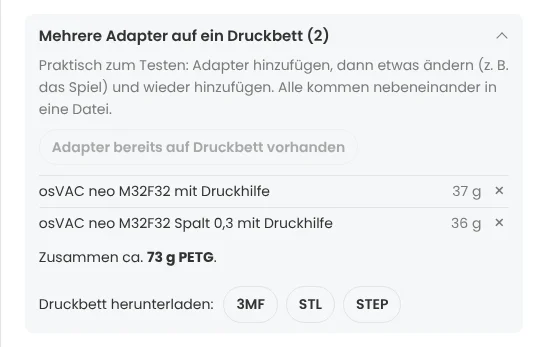
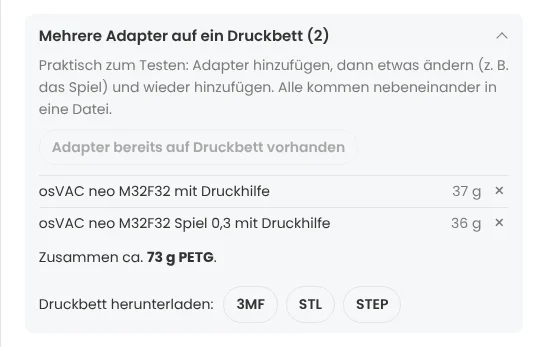
Anleitungsbilder druckbett/stutzen-fein neu, README auf aktuellen Stand
- druckbett.webp: Dateiname „… Spiel 0,3“; stutzen-fein.webp: Tabelle mit Ø… mm
- README: Abschnitt „Dichtung in der Kupplung“ (Maße, Lippendichtung), Drehring
  druckoptimiert als Standard, Gewinde links/rechts, SealFigure, Schritte, test:ui/test:sketches
  mit aktuellem Umfang und Dauer, Tests auf GitHub von Hand, Tag-Beispiel allgemein

Claude-Session: https://claude.ai/code/session_012KSPQT78fBfVApVSRoVPpy

Changed region(s): [[0.3419, 0.6052, 0.6216, 0.6628]]

diff --git a/README.md b/README.md
@@ -66,9 +66,11 @@ Gerade, Bogen, Anschlagring und Muffe/Zapfen ohne Konus sind exakte Extrusionen 
 
 **Magnet-Schnellkupplung Ø100** (`src/lib/osvac/magnet.ts`, `partsMagnet` in `assemblies.ts`): Testdruck steht noch aus; `test:ui` prüft den Ablauf. Eigenes System (an osVAC neo nur über die Platte mit Kupplung/Stecker); Idee wie die magnetische Schnellkupplung von kleinholz.me, eigene Konstruktion. Maschinenadapter: Muffe über den Stutzen (Ø90–110, Spiel je Seite 0,3), innen 45°-Anschlag auf die Bohrung Ø97, am offenen Ende Schraubklemme (Schlitz 4 mm mit Entlastungsloch Ø8, zwei Ohren mit 45°-Stützen, Bohrung Ø5,5, Kopfsenkung Ø9,2 und Sechskant-Tasche SW 8,3, beide 5,3 tief: Zylinderschraube M5 × 25 ISO 4762, selbstsichernde Mutter M5 DIN 985), oben Flansch und Zentrierbund Ø106 × 6. Schlauchkupplung: Rohr mit Außengewinde (Grund = Schlauch innen Ø90–110, Tiefe 3, Flanken 45°, Steigung 8–20, links oder rechts, eigener Körper „Gewinde“), oben Flansch mit Tasche für den Bund (Spiel je Seite 0,3). Flansch: Scheibe R59 und 8 Nasen auf R63 (Nasenradius = Tasche/2 + 3,5), Unterseite durchgehend 45° von der Wand bis außen an die Nasen, darum druckt alles ohne Stützen. Magnete 10 × 3, 12 × 5 oder 15 × 3 in geschlossenen Taschen (+0,3 im Ø, +0,2 hoch) 0,6 mm unter der Kontaktfläche; Kontaktfläche und Taschen im 0,2-mm-Raster, die Höhen der Druckpause stehen in den Druckhinweisen. Beide Teile werden mit der Kontaktfläche nach oben gedruckt und liegen diagonal nebeneinander, um 22,5° gegeneinander verdreht (passen auf 256 mm). `npm run test:islands -- magnet` prüft drei Varianten; `npx tsx scripts/magnet-try.ts [Ordner] [JSON]` baut die Körper einzeln als STL. Platten (Karte *Gerät ↔ Schlauch* mit „Kleiner, mit Drehring“ und Karte *Gerät ↔ Kupplung/Stecker*, `magnetPlate`, `magnetPortLayout`, `magnetPlateInfo`): flach, Kontaktfläche unten (z = 0), 8,4 mm stark mit Ringnut für den Bund (innen Ø97 − 2 × Spiel, Decke = Brücke 4,8 mm), innerhalb der Nut 4 mm, unter jedem Anschluss ein Sockel in voller Stärke mit Loch; Taschen 0,6 über der Kontaktfläche (Druckpause früh). osVAC-Anschlüsse fest (Female bzw. Male gedreht, je mit Übergang wie bei den Stutzen-Adaptern); Schläuche: unterer Drehring + Kopf des Schlauchteils fest, oberer Drehring + umgedrehter Becher (Schlauchteil ohne Knickschutz, Schulter aufgefüllt, Gewinde ohne Auslauf, je Schlauch links oder rechts; Rändelung und Textfelder aufrecht gebaut, `hoseCupGrip`) drehen. Außenradius je Anschluss mit Gegenstück: F/M d/2 + W + 1,5, Schlauch d/2 + W + 0,5; freier Abstand 15 mm (Bajonett), 12 mm bei zwei Steckern (gemessen an den aufgesteckten Kupplungen) bzw. 8 mm (Schläuche), beide innerhalb R59. Verschlusskappen (Stopfen = Male, Kappe = Female, je mit Boden) als eigene Objekte in den freien Ecken des Druckbetts. `npm run test:islands -- magnet` prüft sechs weitere Fälle.
 
-**Druckoptimierter Drehring** (`swivelPrintProfile`, `swivelPrintTop/Bottom` in `hose.ts`, `swivelParts` in `assemblies.ts`, BuildOptions `swivel: 'print'`): in „Passung“ wählbar (*Wie Original* / *Druckoptimiert*, Standard wie im Original), Testdruck steht noch aus. Standard des Drehring-Spiels 0,3 mm wie im Original. Eigene Form statt der Haken des Originals: Der obere Ring (an Kupplung, Gehäuse bzw. Nebenluft-Rohr) sitzt innen und hat unten einen Flansch, der untere (am Schlauchteil) liegt außen als 1,6-mm-Hülse mit einer Lippe, die 1,4 mm über den Flansch greift. Alle beim Druck nach unten zeigenden Flächen sind 45° (Lippen-Unterseite 50°) oder senkrecht; senkrechte Dichtflächen (Flanschspitze 2,2 mm, Lippe 0,8 mm) mit dem eingestellten Spiel, Schrägen mit Spiel + 0,15, mindestens 0,45. Frei beginnt nur die Flanschspitze, 0,65 mm über dem unteren Ring. FxxHyy/Nebenluft-Regler: Schlauchteil 6,5 statt 6,0 mm unter dem Ring (0,5 mm länger); MxxHyy: Gehäuse-Unterkante 45° (Ecke an der Bohrung 0,36 höher), Schulter des Schlauchteils folgt. `npm run test:swivel` prüft die Profile für 7/9 mm und Spiel 0,2–0,5 (keine Überlappung, Mindestspiel, kein Überhang außer dem Anfang) und rechnet das Original zum Vergleich mit; `test:islands` hat drei Fälle `drehring-druck`/`nebenluft-druck`.
+**Druckoptimierter Drehring** (`swivelPrintProfile`, `swivelPrintTop/Bottom` in `hose.ts`, `swivelParts` in `assemblies.ts`, BuildOptions `swivel: 'print'`): in „Passung“ wählbar (*Druckoptimiert* / *Wie Original*, Standard seit 0.6.0 druckoptimiert), Testdruck steht noch aus. Standard des Drehring-Spiels 0,3 mm wie im Original. Eigene Form statt der Haken des Originals: Der obere Ring (an Kupplung, Gehäuse bzw. Nebenluft-Rohr) sitzt innen und hat unten einen Flansch, der untere (am Schlauchteil) liegt außen als 1,6-mm-Hülse mit einer Lippe, die 1,4 mm über den Flansch greift. Alle beim Druck nach unten zeigenden Flächen sind 45° (Lippen-Unterseite 50°) oder senkrecht; senkrechte Dichtflächen (Flanschspitze 2,2 mm, Lippe 0,8 mm) mit dem eingestellten Spiel, Schrägen mit Spiel + 0,15, mindestens 0,45. Frei beginnt nur die Flanschspitze, 0,65 mm über dem unteren Ring. FxxHyy/Nebenluft-Regler: Schlauchteil 6,5 statt 6,0 mm unter dem Ring (0,5 mm länger); MxxHyy: Gehäuse-Unterkante 45° (Ecke an der Bohrung 0,36 höher), Schulter des Schlauchteils folgt. `npm run test:swivel` prüft die Profile für 7/9 mm und Spiel 0,2–0,5 (keine Überlappung, Mindestspiel, kein Überhang außer dem Anfang) und rechnet das Original zum Vergleich mit; `test:islands` hat drei Fälle `drehring-druck`/`nebenluft-druck`.
 
 **Drehring-Lösehilfe** (`src/lib/osvac/helper.ts`): nach „osVACneo SlipRingHelper“ von Ludo Kerz (odul), parametrisch nachgebaut (Abgleich mit dem Fusion-Export F32/M32: Abweichung ≤ 0,02 mm, Schrift ausgenommen). Halter für Kupplungen: Block (FemaleDiameterOuter + 2, 33,5 hoch) mit Stecker-Stutzen und drei Rippen bis 3,3 mm unter die Oberkante. Halter für Stecker: Block mit Bohrung wie die Kupplung und sechs Taschen für die Nasen. Schrift „osVAC neo / F32 bzw. M32 / Drehring-Lösehilfe“ 0,5 mm tief; beschriftet wie im Original nach dem Teil selbst (der Halter für Kupplungen ist ein Stecker: M32, der für Stecker eine Kupplung: F32). Fusion-Exportskript: `tools/fusion/export_loesehilfe`.
+
+**Dichtung in der Kupplung** (`src/lib/osvac/seal.ts`, `sealring.ts`, `partsSealRing` in `assemblies.ts`, Kasten im Schritt Download, Skizze `SealFigure.svelte`): Maße der Dichtnut unten in jeder Kupplung (Bohrung F + 6 + Spiel, größter Ø F + 8,2 auf 1,95 mm Höhe, Rundung R1,95 um Ø F + 4,3, Höhe an der Bohrung, Spielraum der Steckerspitze 3,3 bis 3,6 + 0,6 × Spiel mm über dem Boden, am Modell nachgemessen) mit O-Ring-Vorschlag. Dazu eine **Lippendichtung aus TPU** als eigene Datei (eigener Adaptertyp `SEAL`, nicht in Schritt 1): Fuß in der Hinterschneidung (unten 45°, 0,1 mm Luft), 0,8 mm Lippe unter mindestens 55° nach oben außen, steht um die *Vorspannung der Lippe* (0,2–1,0 mm, Standard 0,5) über der Steckerspitze; die Außenluft drückt sie unter Sog an den Stecker. Die Dichtnut selbst wird in Kupplungen überall frei gelassen (keine Dichtnut-Füllung wie beim Maschinenadapter des Originals).
 
 **Druckbarkeit** (`npm run test:islands`): Düsen, Nebenluft-Regler und Vorlagen werden wie beim Export vernetzt und in 0,2-mm-Schichten geschnitten. Sagt die App „ohne Stützen“, darf nichts frei in der Luft beginnen (außer der untersten Schicht des Drehrings); offene Netzkanten sind immer ein Fehler. Die Stützen-Prüfung der Freiform zählt Kupplungen und Stecker mit, die schräg stehen (nach einem Bogen, am Abzweig).
 
@@ -106,7 +108,7 @@ Nach Änderungen reicht `git add -A`, `git commit -m "…"` und `git push`.
 src/
   App.svelte                 Gerüst: Vorschau, Berechnung mit Fortschritt, Schrittleiste
   lib/app.svelte.ts          Zustand aller Schritte (Eingaben, abgeleitete Werte, Export, Speichern im Browser)
-  components/steps/          Die Schritte Verbindung, Größen, Passung, Download
+  components/steps/          Die Schritte Verbindung, Größen (bzw. Teile, Düse, Nebenluft), Passung, Download
   lib/viewer.ts              3D-Ansicht (three.js) mit Druckbett
   lib/cad.ts                 Worker-Pool, Auftragsverteilung, Export STL/STEP/3MF
   lib/worker/cad.worker.ts   OpenCascade (replicad) im Web Worker, Teile-Cache
@@ -117,7 +119,7 @@ src/
   lib/osvac/sealring.ts      Lippendichtung aus TPU als Körper (eigene Datei, Kind SEAL außerhalb von Schritt 1)
   lib/osvac/male.ts          Stecker mit Bajonettnasen, Druckhilfe
   lib/osvac/hose.ts          Gewindekörper, Drehring, Gehäuse, Knickschutz
-  lib/osvac/thread.ts        Schlauchgewinde (linksgängig, Steigung 5 mm, Konus 4°)
+  lib/osvac/thread.ts        Schlauchgewinde (links- oder rechtsgängig, Steigung 5 mm, Konus 4°)
   lib/osvac/magnet.ts        Magnet-Schnellkupplung Ø100 (Adapter, Kupplung, Taschen, Klemme)
   lib/osvac/machine.ts       Rohrkonus für Stutzen
   lib/osvac/grip.ts          Rändelung und Textfelder
@@ -139,6 +141,7 @@ src/
   components/SectionEditor.svelte   Querschnitt wählen und bemaßen, mit Skizze
   components/BlockFigure.svelte     Erklärskizzen der Bausteine
   components/ContourPanel.svelte    eigene Kontur laden, nachzeichnen, zeichnen (ContourDraw.svelte)
+  components/SealFigure.svelte      Schnitt durch die Dichtnut mit Steckerspitze und Lippendichtung (Download)
 scripts/
   build-ref.ts               Einzelteil in Node bauen (npm run part -- MxxFyy 25 32 32)
   matrix.ts                  Alle Typen mit Grenzwerten bauen (npm run test:geometry)
@@ -167,14 +170,14 @@ tools/druck/                 Schichtprüfung für test:islands und test:bleed (P
 | `npm run check` | Typen (Svelte und TypeScript) | < 1 min |
 | `npm run test:keys` | gleiche Cache-Schlüssel ergeben gleiche Körper | ca. 1 min |
 | `npm run test:freeform` | alle Freiform-Vorlagen, Querschnitte, Extras, Flansch (alle Formen, mit Dichtung, Lochbild nach Maß, Prüfungen) und längere Ketten, Stutzen-Typen mit Klemmrippen/Schlitzen, Weg des Hinweises bei weggelassenen Rippen, Rahmen nicht gespiegelt | ca. 4 min |
-| `npm run test:sketches` | keine Beschriftung in Skizzen berührt Linien, Flächen oder andere Beschriftungen (braucht `npm run build` und Chrome, Chromium oder Edge; wird gesucht, sonst Pfad über `CHROME_PATH`) | < 1 min |
-| `npm run test:ui` | Bedienabläufe: Neu anfangen, Rückfrage vor Vorlagen, Bereich bleibt offen, Download gesperrt bei Fehlern und bei Teilen unter dem Druckbett, Stand und Druckbett nach dem Neuladen, Extras im Namen, Flansch, Druckhilfe je Verbindung, Link aus den Download-Hinweisen (braucht `npm run build` und Chrome; bei Fehlern Bildschirmfotos in out/) | ca. 1 min |
+| `npm run test:sketches` | keine Beschriftung in Skizzen berührt Linien, Flächen oder andere Beschriftungen, auch in der Skizze der Dichtnut (braucht `npm run build` und Chrome, Chromium oder Edge; wird gesucht, sonst Pfad über `CHROME_PATH`) | ca. 2 min |
+| `npm run test:ui` | Bedienabläufe: Neu anfangen, Rückfrage vor Vorlagen, Bereich bleibt offen, Download gesperrt bei Fehlern und bei Teilen unter dem Druckbett, Stand und Druckbett nach dem Neuladen, Extras im Namen, Flansch, Abzweig, Schieber, Speicherort, Saugdüse, Nebenluft-Regler, eigene Kontur, Lösehilfe, Magnet-Schnellkupplung (mit Maßen der Dichtnut und Download der Lippendichtung), Drehring, Gewinderichtung, Druckhilfe je Verbindung, hell/dunkel, Link aus den Download-Hinweisen (braucht `npm run build` und Chrome; bei Fehlern Bildschirmfotos in out/) | ca. 10 min |
 | `npm run test:geometry` | alle Adaptertypen mit Grenzwerten | ca. 10–15 min |
 | `npm run test:swivel` | Druckoptimierter Drehring: Profile ohne Überlappung, Mindestspiel, kein Überhang außer dem Anfang des oberen Rings; Vergleich mit dem Original | wenige s |
 | `npm run test:bleed` | Nebenluft-Ring: Rohr und Ring in 0,2-mm-Schichten, frei beginnt nur die unterste Ringschicht (mindestens 0,6 mm über dem Rohr), Abstand nirgends kleiner als das Spiel (braucht python3 mit trimesh, shapely, rtree) | etwa 20 s |
 | `npm run test:islands` | Druckbarkeit: Düsen, Nebenluft-Regler und Vorlagen in 0,2-mm-Schichten geschnitten, nichts beginnt frei in der Luft, wenn die App „ohne Stützen“ sagt (braucht python3 mit trimesh und shapely) | ca. 2 min |
 
-Auf GitHub laufen alle von Hand (Actions → Tests → Run workflow) und vor jedem Release (siehe „Neue Version veröffentlichen“), in mehreren gleichzeitigen Gruppen, zusammen etwa 15 Minuten. Nicht bei jedem Push: vor jedem Patch laufen die Tests ohnehin lokal.
+Auf GitHub laufen alle von Hand (Actions → Tests → Run workflow) und vor jedem Release (siehe „Neue Version veröffentlichen“), in mehreren gleichzeitigen Gruppen, zusammen etwa 20 Minuten. Nicht bei jedem Push: nach größeren Änderungen deshalb von Hand starten.
 
 ### Rechenzeit
 
@@ -202,7 +205,8 @@ Auf GitHub laufen alle von Hand (Actions → Tests → Run workflow) und vor jed
 - Freiform: Dateiname und Druckbett-Liste nennen die Extras („… Schrauben Aussparung“). Die Lage der Aussparung zeigt eine kleine Skizze des Querschnitts, ein Klick darauf setzt sie. Die schnelle Vorschau rechnet ohne Extras.
 - Während der Berechnung zeigt die Vorschau den Fortschritt („3 von 9 Teilen“, ab dem ersten fertigen Teil). Scheitert sie, bleibt das letzte Modell blass stehen; gab es noch keins, erscheint ein Hinweis statt einer leeren Vorschau.
 - Im Download-Schritt lassen sich mehrere Adapter auf ein Druckbett legen und zusammen als 3MF, STL oder STEP herunterladen.
-- Dateinamen enthalten abweichende Einstellungen (z. B. „osVAC neo F32H36 Drehring 0,4“).
+- Bei jedem Adapter mit Kupplung zeigt der Download-Schritt den Kasten „Dichtung in der Kupplung“ (siehe oben).
+- Dateinamen enthalten abweichende Einstellungen (z. B. „osVAC neo F32H36 Spiel 0,3 Drehring 0,4“).
 
 Konvention: Achse = Z, Oberkante eines Moduls bei z = 0, Profile als (r, z). Radien hängen über die Fusion-Formeln von den Eingaben ab, axiale Maße sind fest.
 
@@ -280,7 +284,7 @@ dann `npx tauri build --bundles appimage,deb`.
 1. Version in `package.json`, `package-lock.json`, `src-tauri/tauri.conf.json`, `src-tauri/Cargo.toml` und
    `src-tauri/Cargo.lock` erhöhen und in `CHANGELOG.md` einen Abschnitt `## <Version>` anlegen.
 2. Bei geänderten Abhängigkeiten die Lizenzdateien neu erzeugen (siehe „Lizenzen“).
-3. Committen, pushen, dann den Tag setzen: `git tag v0.6.1 && git push origin v0.6.1`.
+3. Committen, pushen, dann den Tag setzen: `git tag v<Version> && git push origin v<Version>` (z. B. `v0.7.0`).
 
 Der Tag startet `.github/workflows/release.yml`: Erst wird geprüft, ob Tag, Versionsnummern und CHANGELOG
 zusammenpassen und die Lizenzdateien aktuell sind. Dann laufen alle Tests und die drei Installer gleichzeitig (etwa 15–20 Minuten). Nur wenn alles

diff --git a/CHANGELOG.md b/CHANGELOG.md
@@ -7,8 +7,8 @@
 - Dateinamen: „Spiel 0,3“ statt „Spalt 0,3“, wie in der Oberfläche („Spiel zwischen Stecker und Kupplung“). Beim Magnet-Adapter heißt das Spiel am Stutzen im Dateinamen jetzt „Stutzen 0,4“, damit es sich vom Spiel am Bajonett unterscheidet.
 - *Größen* beim Stutzen: Die Tabelle „So wird das Rohrteil des Adapters“ zeigt die Werte mit Einheit (Ø29,3 mm statt 29,3).
 - Der Kasten *Dichtung in der Kupplung* bleibt aufgeklappt, wenn man zwischen den Schritten wechselt.
-- Anleitungsbilder *kontur-foto-pruefen* und *kontur-fertig* neu (Schreibweise R0,5).
-- Technik: three.js (3D-Vorschau) liegt in einer eigenen Datei, die Startdatei ist dadurch 450 statt 1040 kB groß; keine Datei mehr über 800 kB. `tsconfig.json` ohne veraltete Einstellung (moduleResolution node10, mit TypeScript 7 nicht mehr erlaubt). README: Ø und R ohne Leerzeichen.
+- Anleitungsbilder *kontur-foto-pruefen* und *kontur-fertig* (Schreibweise R0,5), *druckbett* (Dateiname mit „Spiel“) und *stutzen-fein* (Tabelle mit Einheiten) neu.
+- Technik: three.js (3D-Vorschau) liegt in einer eigenen Datei, die Startdatei ist dadurch 450 statt 1040 kB groß; keine Datei mehr über 800 kB. `tsconfig.json` ohne veraltete Einstellung (moduleResolution node10, mit TypeScript 7 nicht mehr erlaubt). README: Ø und R ohne Leerzeichen, auf den aktuellen Stand gebracht (Dichtung in der Kupplung und Lippendichtung, Drehring druckoptimiert als Standard, Gewinde links oder rechts, Prüfungen und ihre Dauer).
 - **Maße der Dichtnut** im Schritt *Download*: Bei jedem Adapter mit Kupplung zeigt der Kasten *Dichtung in der Kupplung* eine maßstäbliche Skizze und die Maße für eine eigene Dichtung: Bohrung über der Nut, größter Ø der Nut, Rundung außen (R1,95), Höhe an der Bohrung, Abstand der Steckerspitze vom Boden (unter Sog und ohne Sog), Durchgang und Auflagefläche der Steckerspitze, dazu ein passender O-Ring und wie stark er zusammengedrückt wird. Bei zwei Kupplungen verschiedener Größe je eine Tabelle (bei der Magnet-Platte auch für die Kupplung in der Kappe eines Steckers). Hinweise: gedruckt weicht die Nut etwas ab (Probering drucken), genau nachmessen lässt sie sich im STEP-Modell; die Werte gelten für einen Stecker mit demselben Spiel. Die Lage der Steckerspitze ist am Modell nachgemessen (F32, Spiel 0,2 und 0,4). Wunsch aus dem Forum (bisher half nur, eine Kupplung aufzuschneiden).
 - Neu: **Lippendichtung aus TPU** im Kasten *Dichtung in der Kupplung* (Schritt *Download*), als eigene Datei (3MF, STL, STEP) für alle Kupplungen des Adapters. Lippendichtung: Ein Fuß hält in der Hinterschneidung der Nut (unten 45°, 0,1 mm Luft zur Rundung), eine 0,8 mm dünne Lippe wächst innen schräg nach oben außen (mindestens 55° steil, druckt flach ohne Stützen) und legt sich von unten an die Steckerspitze. Die Außenluft kommt über den Spalt an der Bohrung unter die Lippe und drückt sie gegen den Stecker, unter Sog wird es also dichter; weil sich nur die Lippe biegt, lässt sich der Stecker leicht eindrehen. *Vorspannung der Lippe* 0,2–1,0 mm (Standard 0,5); die Lippe wird steiler, wenn sie sonst an die Bohrung käme. Skizze mit Ring, Maße und Gewicht (etwa 0,5–1,5 g). Am Modell geprüft: der Ring berührt die Kupplung nicht, der Stecker berührt nur die Lippe. Hinweise zu TPU (85A–95A), Einsetzen und Probedruck.
 - Texte zur Dichtnut korrigiert: Der Sog zieht den Stecker kaum tiefer (bei 35 kPa etwa 35 N), maßgeblich ist, wie stark die Dichtung zusammengedrückt ist, wenn die Nasen oben in der Nut anliegen. Zeile E nennt den Spielraum der Nasen; die Skizze zeigt den Stecker in dieser Stellung.
